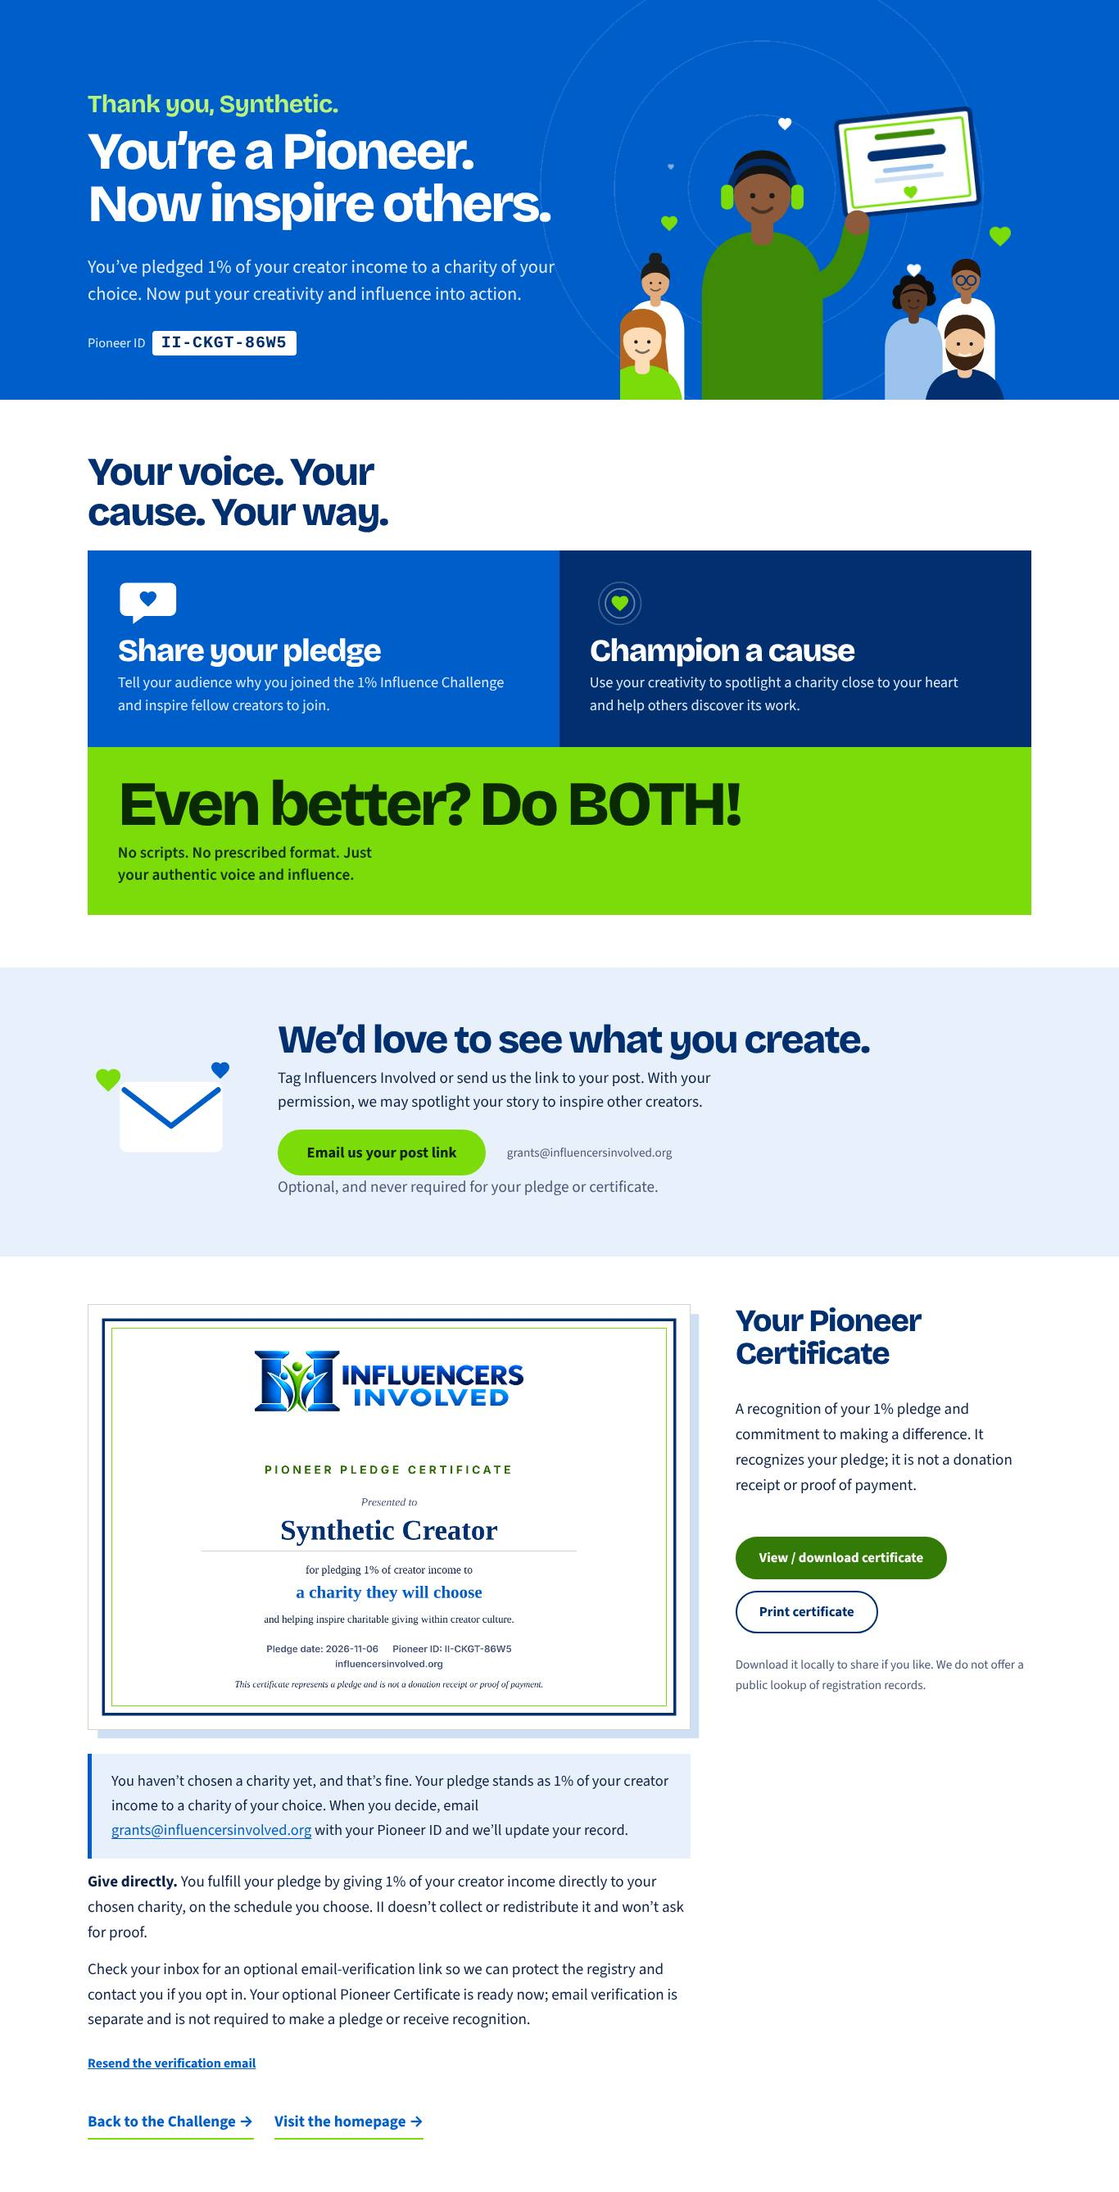
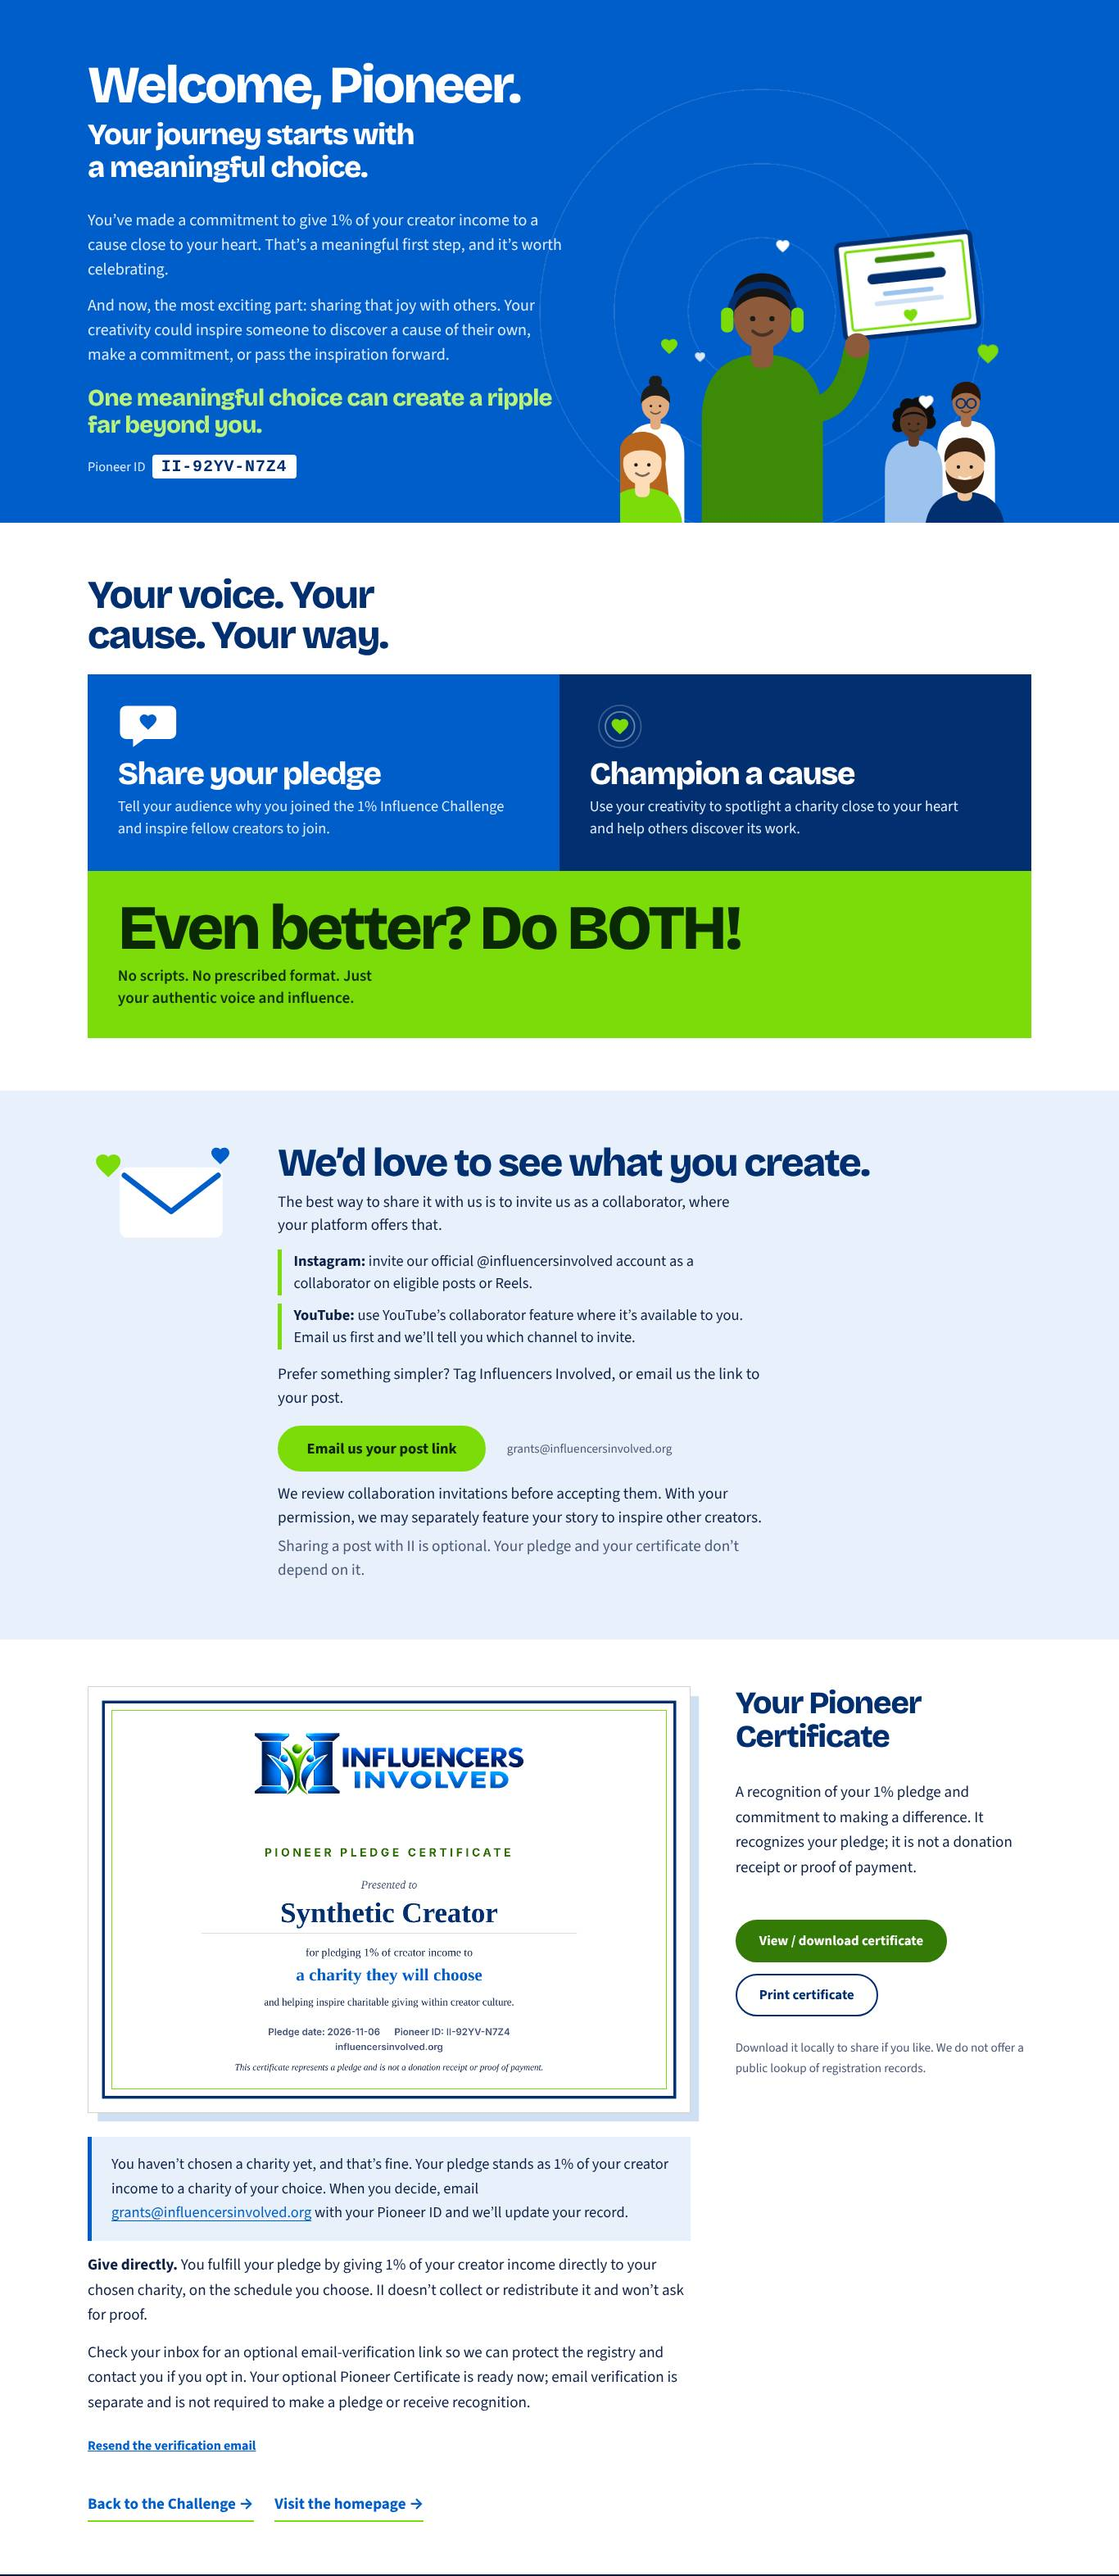
Pioneer success page: heartfelt welcome and collaboration-first invitation
- welcome celebrates the decision (universal greeting; removes the first-name greeting and its JS)
- invitation prefers collaborator invitations (Instagram @influencersinvolved, YouTube feature without an invented handle), keeps tag/email as alternatives, states that II reviews invitations and may feature stories with permission
- 'Sharing a post with II is optional' replaces the vague line
- design, action panels, BOTH slab and certificate layout unchanged; site.js back to main

Claude-Session: https://claude.ai/code/session_012usvGL1vp3ymgE2qmT3tXw

diff --git a/src/pages/challenge.html b/src/pages/challenge.html
@@ -213,9 +213,10 @@ class: page-challenge
   <section class="m-hero s-hero" aria-labelledby="s-title">
     <div class="wrap m-hero-grid">
       <div class="m-copy">
-        <p class="s-thanks" id="s-thanks" hidden>Thank you, <span id="pioneer-first"></span>.</p>
-        <h2 id="s-title"><span>You’re a Pioneer.</span> <span>Now inspire others.</span></h2>
-        <p class="m-sub">You’ve pledged 1% of your creator income to a charity of your choice. Now put your creativity and influence into action.</p>
+        <h2 id="s-title"><span>Welcome, Pioneer.</span> <span>Your journey starts with a meaningful choice.</span></h2>
+        <p class="m-sub">You’ve made a commitment to give 1% of your creator income to a cause close to your heart. That’s a meaningful first step, and it’s worth celebrating.</p>
+        <p class="m-sub">And now, the most exciting part: sharing that joy with others. Your creativity could inspire someone to discover a cause of their own, make a commitment, or pass the inspiration forward.</p>
+        <p class="s-ripple">One meaningful choice can create a ripple far beyond you.</p>
         <p class="s-id">Pioneer ID <span class="pid" id="pid"></span></p>
       </div>
       <div class="m-scene" role="img" aria-label="Illustration: a creator proudly holding up a Pioneer pledge certificate while a smiling crowd cheers.">
@@ -267,9 +268,15 @@ class: page-challenge
       <svg class="invite-art" viewBox="0 0 160 110" aria-hidden="true" focusable="false"><use href="#p-envelope" x="30" y="22" width="110" height="77"/><use href="#heart" class="hz2" x="6" y="8" width="30" height="30"/><use href="#heart" x="124" y="2" width="22" height="22" fill="#005eca"/></svg>
       <div>
         <h3 id="s-invite-h">We’d love to see what you create.</h3>
-        <p>Tag Influencers Involved or send us the link to your post. With your permission, we may spotlight your story to inspire other creators.</p>
+        <p>The best way to share it with us is to invite us as a collaborator, where your platform offers that.</p>
+        <ul class="invite-ways">
+          <li><b>Instagram:</b> invite our official @influencersinvolved account as a collaborator on eligible posts or Reels.</li>
+          <li><b>YouTube:</b> use YouTube’s collaborator feature where it’s available to you. Email us first and we’ll tell you which channel to invite.</li>
+        </ul>
+        <p>Prefer something simpler? Tag Influencers Involved, or email us the link to your post.</p>
         <div class="cta-row"><a class="m-btn" href="mailto:{{email}}?subject=My%20post%20for%20the%201%25%20Influence%20Challenge">Email us your post link</a><span class="fine">{{email}}</span></div>
-        <p class="fine">Optional, and never required for your pledge or certificate.</p>
+        <p>We review collaboration invitations before accepting them. With your permission, we may separately feature your story to inspire other creators.</p>
+        <p class="fine">Sharing a post with II is optional. Your pledge and your certificate don’t depend on it.</p>
       </div>
     </div>
   </section>

diff --git a/site/challenge/index.html b/site/challenge/index.html
@@ -341,9 +341,10 @@
   <section class="m-hero s-hero" aria-labelledby="s-title">
     <div class="wrap m-hero-grid">
       <div class="m-copy">
-        <p class="s-thanks" id="s-thanks" hidden>Thank you, <span id="pioneer-first"></span>.</p>
-        <h2 id="s-title"><span>You’re a Pioneer.</span> <span>Now inspire others.</span></h2>
-        <p class="m-sub">You’ve pledged 1% of your creator income to a charity of your choice. Now put your creativity and influence into action.</p>
+        <h2 id="s-title"><span>Welcome, Pioneer.</span> <span>Your journey starts with a meaningful choice.</span></h2>
+        <p class="m-sub">You’ve made a commitment to give 1% of your creator income to a cause close to your heart. That’s a meaningful first step, and it’s worth celebrating.</p>
+        <p class="m-sub">And now, the most exciting part: sharing that joy with others. Your creativity could inspire someone to discover a cause of their own, make a commitment, or pass the inspiration forward.</p>
+        <p class="s-ripple">One meaningful choice can create a ripple far beyond you.</p>
         <p class="s-id">Pioneer ID <span class="pid" id="pid"></span></p>
       </div>
       <div class="m-scene" role="img" aria-label="Illustration: a creator proudly holding up a Pioneer pledge certificate while a smiling crowd cheers.">
@@ -395,9 +396,15 @@
       <svg class="invite-art" viewBox="0 0 160 110" aria-hidden="true" focusable="false"><use href="#p-envelope" x="30" y="22" width="110" height="77"/><use href="#heart" class="hz2" x="6" y="8" width="30" height="30"/><use href="#heart" x="124" y="2" width="22" height="22" fill="#005eca"/></svg>
       <div>
         <h3 id="s-invite-h">We’d love to see what you create.</h3>
-        <p>Tag Influencers Involved or send us the link to your post. With your permission, we may spotlight your story to inspire other creators.</p>
+        <p>The best way to share it with us is to invite us as a collaborator, where your platform offers that.</p>
+        <ul class="invite-ways">
+          <li><b>Instagram:</b> invite our official @influencersinvolved account as a collaborator on eligible posts or Reels.</li>
+          <li><b>YouTube:</b> use YouTube’s collaborator feature where it’s available to you. Email us first and we’ll tell you which channel to invite.</li>
+        </ul>
+        <p>Prefer something simpler? Tag Influencers Involved, or email us the link to your post.</p>
         <div class="cta-row"><a class="m-btn" href="mailto:grants@influencersinvolved.org?subject=My%20post%20for%20the%201%25%20Influence%20Challenge">Email us your post link</a><span class="fine">grants@influencersinvolved.org</span></div>
-        <p class="fine">Optional, and never required for your pledge or certificate.</p>
+        <p>We review collaboration invitations before accepting them. With your permission, we may separately feature your story to inspire other creators.</p>
+        <p class="fine">Sharing a post with II is optional. Your pledge and your certificate don’t depend on it.</p>
       </div>
     </div>
   </section>

diff --git a/site/assets/site.css b/site/assets/site.css
@@ -194,7 +194,9 @@ input[aria-invalid=true],select[aria-invalid=true]{border-color:var(--danger)}
 .join-wrap:has(#join-area[hidden]){display:none}
 .s-hero .m-copy{padding-bottom:clamp(1.8rem,4vw,3.4rem)}
 .s-hero .m-scene{max-width:30rem}
-.s-thanks{font:700 clamp(1.4rem,2.6vw,1.9rem)/1.15 var(--serif);letter-spacing:-.02em;color:#b9f27c;margin:0 0 .5rem}
+.s-hero h2 span+span{font-size:.56em;line-height:1.12;letter-spacing:-.035em;margin-top:.25em;max-width:17em}
+.s-hero .m-sub{max-width:40em;margin-bottom:.9rem;font-size:clamp(1.08rem,1.6vw,1.25rem);line-height:1.5}
+.s-ripple{margin:1.3rem 0 0;font:800 clamp(1.3rem,2.4vw,1.8rem)/1.15 var(--serif);letter-spacing:-.025em;color:#b9f27c;max-width:22em}
 .s-hero h2{color:#fff;font:800 clamp(2.1rem,4.7vw,4rem)/1 var(--serif);letter-spacing:-.046em;margin:0 0 .45em}
 .s-hero h2 span{display:block}
 .s-id{margin:1.2rem 0 0;color:#e1edff;font-size:1.02rem}
@@ -216,10 +218,12 @@ input[aria-invalid=true],select[aria-invalid=true]{border-color:var(--danger)}
 .s-invite .wrap{display:grid;grid-template-columns:1fr;gap:1.2rem;align-items:center}
 @media (min-width:760px){.s-invite .wrap{grid-template-columns:12rem 1fr;gap:2.5rem}}
 .invite-art{width:9rem;height:auto;display:block}
-@media (min-width:760px){.invite-art{width:100%}}
+@media (min-width:760px){.invite-art{width:100%;align-self:start}}
 .s-invite h3{font:800 clamp(1.9rem,4vw,3rem)/1 var(--serif);letter-spacing:-.04em;color:var(--navy);margin:0 0 .6rem}
 .s-invite p{max-width:var(--measure);margin:0 0 .4rem;font-size:1.2rem;line-height:1.5}
-.s-invite .cta-row{margin-top:1.2rem}
+.s-invite .cta-row{margin-top:1.2rem;margin-bottom:.8rem}
+.invite-ways{list-style:none;margin:.9rem 0 1rem;padding:0;display:grid;gap:.6rem;max-width:var(--measure)}
+.invite-ways li{border-left:5px solid var(--leaf);padding:.1rem 0 .1rem .9rem;font-size:1.15rem;line-height:1.45}
 .s-cert{background:#fff;padding-block:clamp(2rem,5vw,3.6rem) 0}
 .s-cert h3{font:800 clamp(1.7rem,3.4vw,2.4rem)/1.05 var(--serif);letter-spacing:-.035em;color:var(--navy);margin:0 0 .5rem}
 .s-cert .wrap>p:first-of-type{max-width:var(--measure);margin:0}
@@ -235,7 +239,11 @@ input[aria-invalid=true],select[aria-invalid=true]{border-color:var(--danger)}
   .s-cert .wrap>p.fine{grid-column:2;grid-row:4}
 }
 @media (max-width:640px){
-  .s-hero .m-scene{max-width:15rem}
+  .s-hero .m-scene{max-width:13rem}
+  .s-hero .m-sub{font-size:1.04rem;line-height:1.45;margin-bottom:.7rem}
+  .s-ripple{margin-top:1rem;font-size:1.2rem}
+  .invite-ways{gap:.45rem;margin:.6rem 0 .7rem}
+  .invite-ways li{font-size:1.04rem;line-height:1.4}
   .next-opt{grid-template-columns:3rem 1fr;column-gap:.8rem;align-items:center}
   .next-opt p{grid-column:1/-1}
   .opt-art{grid-row:1;width:3rem}
@@ -244,7 +252,6 @@ input[aria-invalid=true],select[aria-invalid=true]{border-color:var(--danger)}
   .invite-art{display:none}
   .s-act{padding-block:1.6rem}
   .next-h{margin-bottom:1rem}
-  .s-thanks{font-size:1.3rem}
   .next-actions{gap:0}
   .next-opt{padding:1.1rem 1.15rem 1.2rem;gap:.3rem}
   .next-opt p{font-size:1.05rem;line-height:1.45}

diff --git a/src/static/site.css b/src/static/site.css
@@ -194,7 +194,9 @@ input[aria-invalid=true],select[aria-invalid=true]{border-color:var(--danger)}
 .join-wrap:has(#join-area[hidden]){display:none}
 .s-hero .m-copy{padding-bottom:clamp(1.8rem,4vw,3.4rem)}
 .s-hero .m-scene{max-width:30rem}
-.s-thanks{font:700 clamp(1.4rem,2.6vw,1.9rem)/1.15 var(--serif);letter-spacing:-.02em;color:#b9f27c;margin:0 0 .5rem}
+.s-hero h2 span+span{font-size:.56em;line-height:1.12;letter-spacing:-.035em;margin-top:.25em;max-width:17em}
+.s-hero .m-sub{max-width:40em;margin-bottom:.9rem;font-size:clamp(1.08rem,1.6vw,1.25rem);line-height:1.5}
+.s-ripple{margin:1.3rem 0 0;font:800 clamp(1.3rem,2.4vw,1.8rem)/1.15 var(--serif);letter-spacing:-.025em;color:#b9f27c;max-width:22em}
 .s-hero h2{color:#fff;font:800 clamp(2.1rem,4.7vw,4rem)/1 var(--serif);letter-spacing:-.046em;margin:0 0 .45em}
 .s-hero h2 span{display:block}
 .s-id{margin:1.2rem 0 0;color:#e1edff;font-size:1.02rem}
@@ -216,10 +218,12 @@ input[aria-invalid=true],select[aria-invalid=true]{border-color:var(--danger)}
 .s-invite .wrap{display:grid;grid-template-columns:1fr;gap:1.2rem;align-items:center}
 @media (min-width:760px){.s-invite .wrap{grid-template-columns:12rem 1fr;gap:2.5rem}}
 .invite-art{width:9rem;height:auto;display:block}
-@media (min-width:760px){.invite-art{width:100%}}
+@media (min-width:760px){.invite-art{width:100%;align-self:start}}
 .s-invite h3{font:800 clamp(1.9rem,4vw,3rem)/1 var(--serif);letter-spacing:-.04em;color:var(--navy);margin:0 0 .6rem}
 .s-invite p{max-width:var(--measure);margin:0 0 .4rem;font-size:1.2rem;line-height:1.5}
-.s-invite .cta-row{margin-top:1.2rem}
+.s-invite .cta-row{margin-top:1.2rem;margin-bottom:.8rem}
+.invite-ways{list-style:none;margin:.9rem 0 1rem;padding:0;display:grid;gap:.6rem;max-width:var(--measure)}
+.invite-ways li{border-left:5px solid var(--leaf);padding:.1rem 0 .1rem .9rem;font-size:1.15rem;line-height:1.45}
 .s-cert{background:#fff;padding-block:clamp(2rem,5vw,3.6rem) 0}
 .s-cert h3{font:800 clamp(1.7rem,3.4vw,2.4rem)/1.05 var(--serif);letter-spacing:-.035em;color:var(--navy);margin:0 0 .5rem}
 .s-cert .wrap>p:first-of-type{max-width:var(--measure);margin:0}
@@ -235,7 +239,11 @@ input[aria-invalid=true],select[aria-invalid=true]{border-color:var(--danger)}
   .s-cert .wrap>p.fine{grid-column:2;grid-row:4}
 }
 @media (max-width:640px){
-  .s-hero .m-scene{max-width:15rem}
+  .s-hero .m-scene{max-width:13rem}
+  .s-hero .m-sub{font-size:1.04rem;line-height:1.45;margin-bottom:.7rem}
+  .s-ripple{margin-top:1rem;font-size:1.2rem}
+  .invite-ways{gap:.45rem;margin:.6rem 0 .7rem}
+  .invite-ways li{font-size:1.04rem;line-height:1.4}
   .next-opt{grid-template-columns:3rem 1fr;column-gap:.8rem;align-items:center}
   .next-opt p{grid-column:1/-1}
   .opt-art{grid-row:1;width:3rem}
@@ -244,7 +252,6 @@ input[aria-invalid=true],select[aria-invalid=true]{border-color:var(--danger)}
   .invite-art{display:none}
   .s-act{padding-block:1.6rem}
   .next-h{margin-bottom:1rem}
-  .s-thanks{font-size:1.3rem}
   .next-actions{gap:0}
   .next-opt{padding:1.1rem 1.15rem 1.2rem;gap:.3rem}
   .next-opt p{font-size:1.05rem;line-height:1.45}

diff --git a/site/assets/site.js b/site/assets/site.js
@@ -256,8 +256,6 @@
   function success(res, sent) {
     if (res.email_status !== 'replayed') track('pioneer_registered', { account_count: sent.accounts.length, charity_status: res.charity_status });
     $('#pid').textContent = res.pioneer_id;
-    var first = String(sent.creator_name || '').trim().split(/\s+/)[0].slice(0, 30); // greeting on the person's own screen only; shown with textContent, never sent anywhere
-    if (first) { $('#pioneer-first').textContent = first; $('#s-thanks').hidden = false; }
     $('#join-area').hidden = true; $('#challenge-intro').hidden = true;
     var s = $('#success'); s.hidden = false;
     var dl = $('#cert-download'); if (dl) dl.addEventListener('click', function () { track('certificate_download'); });

diff --git a/src/static/site.js b/src/static/site.js
@@ -256,8 +256,6 @@
   function success(res, sent) {
     if (res.email_status !== 'replayed') track('pioneer_registered', { account_count: sent.accounts.length, charity_status: res.charity_status });
     $('#pid').textContent = res.pioneer_id;
-    var first = String(sent.creator_name || '').trim().split(/\s+/)[0].slice(0, 30); // greeting on the person's own screen only; shown with textContent, never sent anywhere
-    if (first) { $('#pioneer-first').textContent = first; $('#s-thanks').hidden = false; }
     $('#join-area').hidden = true; $('#challenge-intro').hidden = true;
     var s = $('#success'); s.hidden = false;
     var dl = $('#cert-download'); if (dl) dl.addEventListener('click', function () { track('certificate_download'); });
